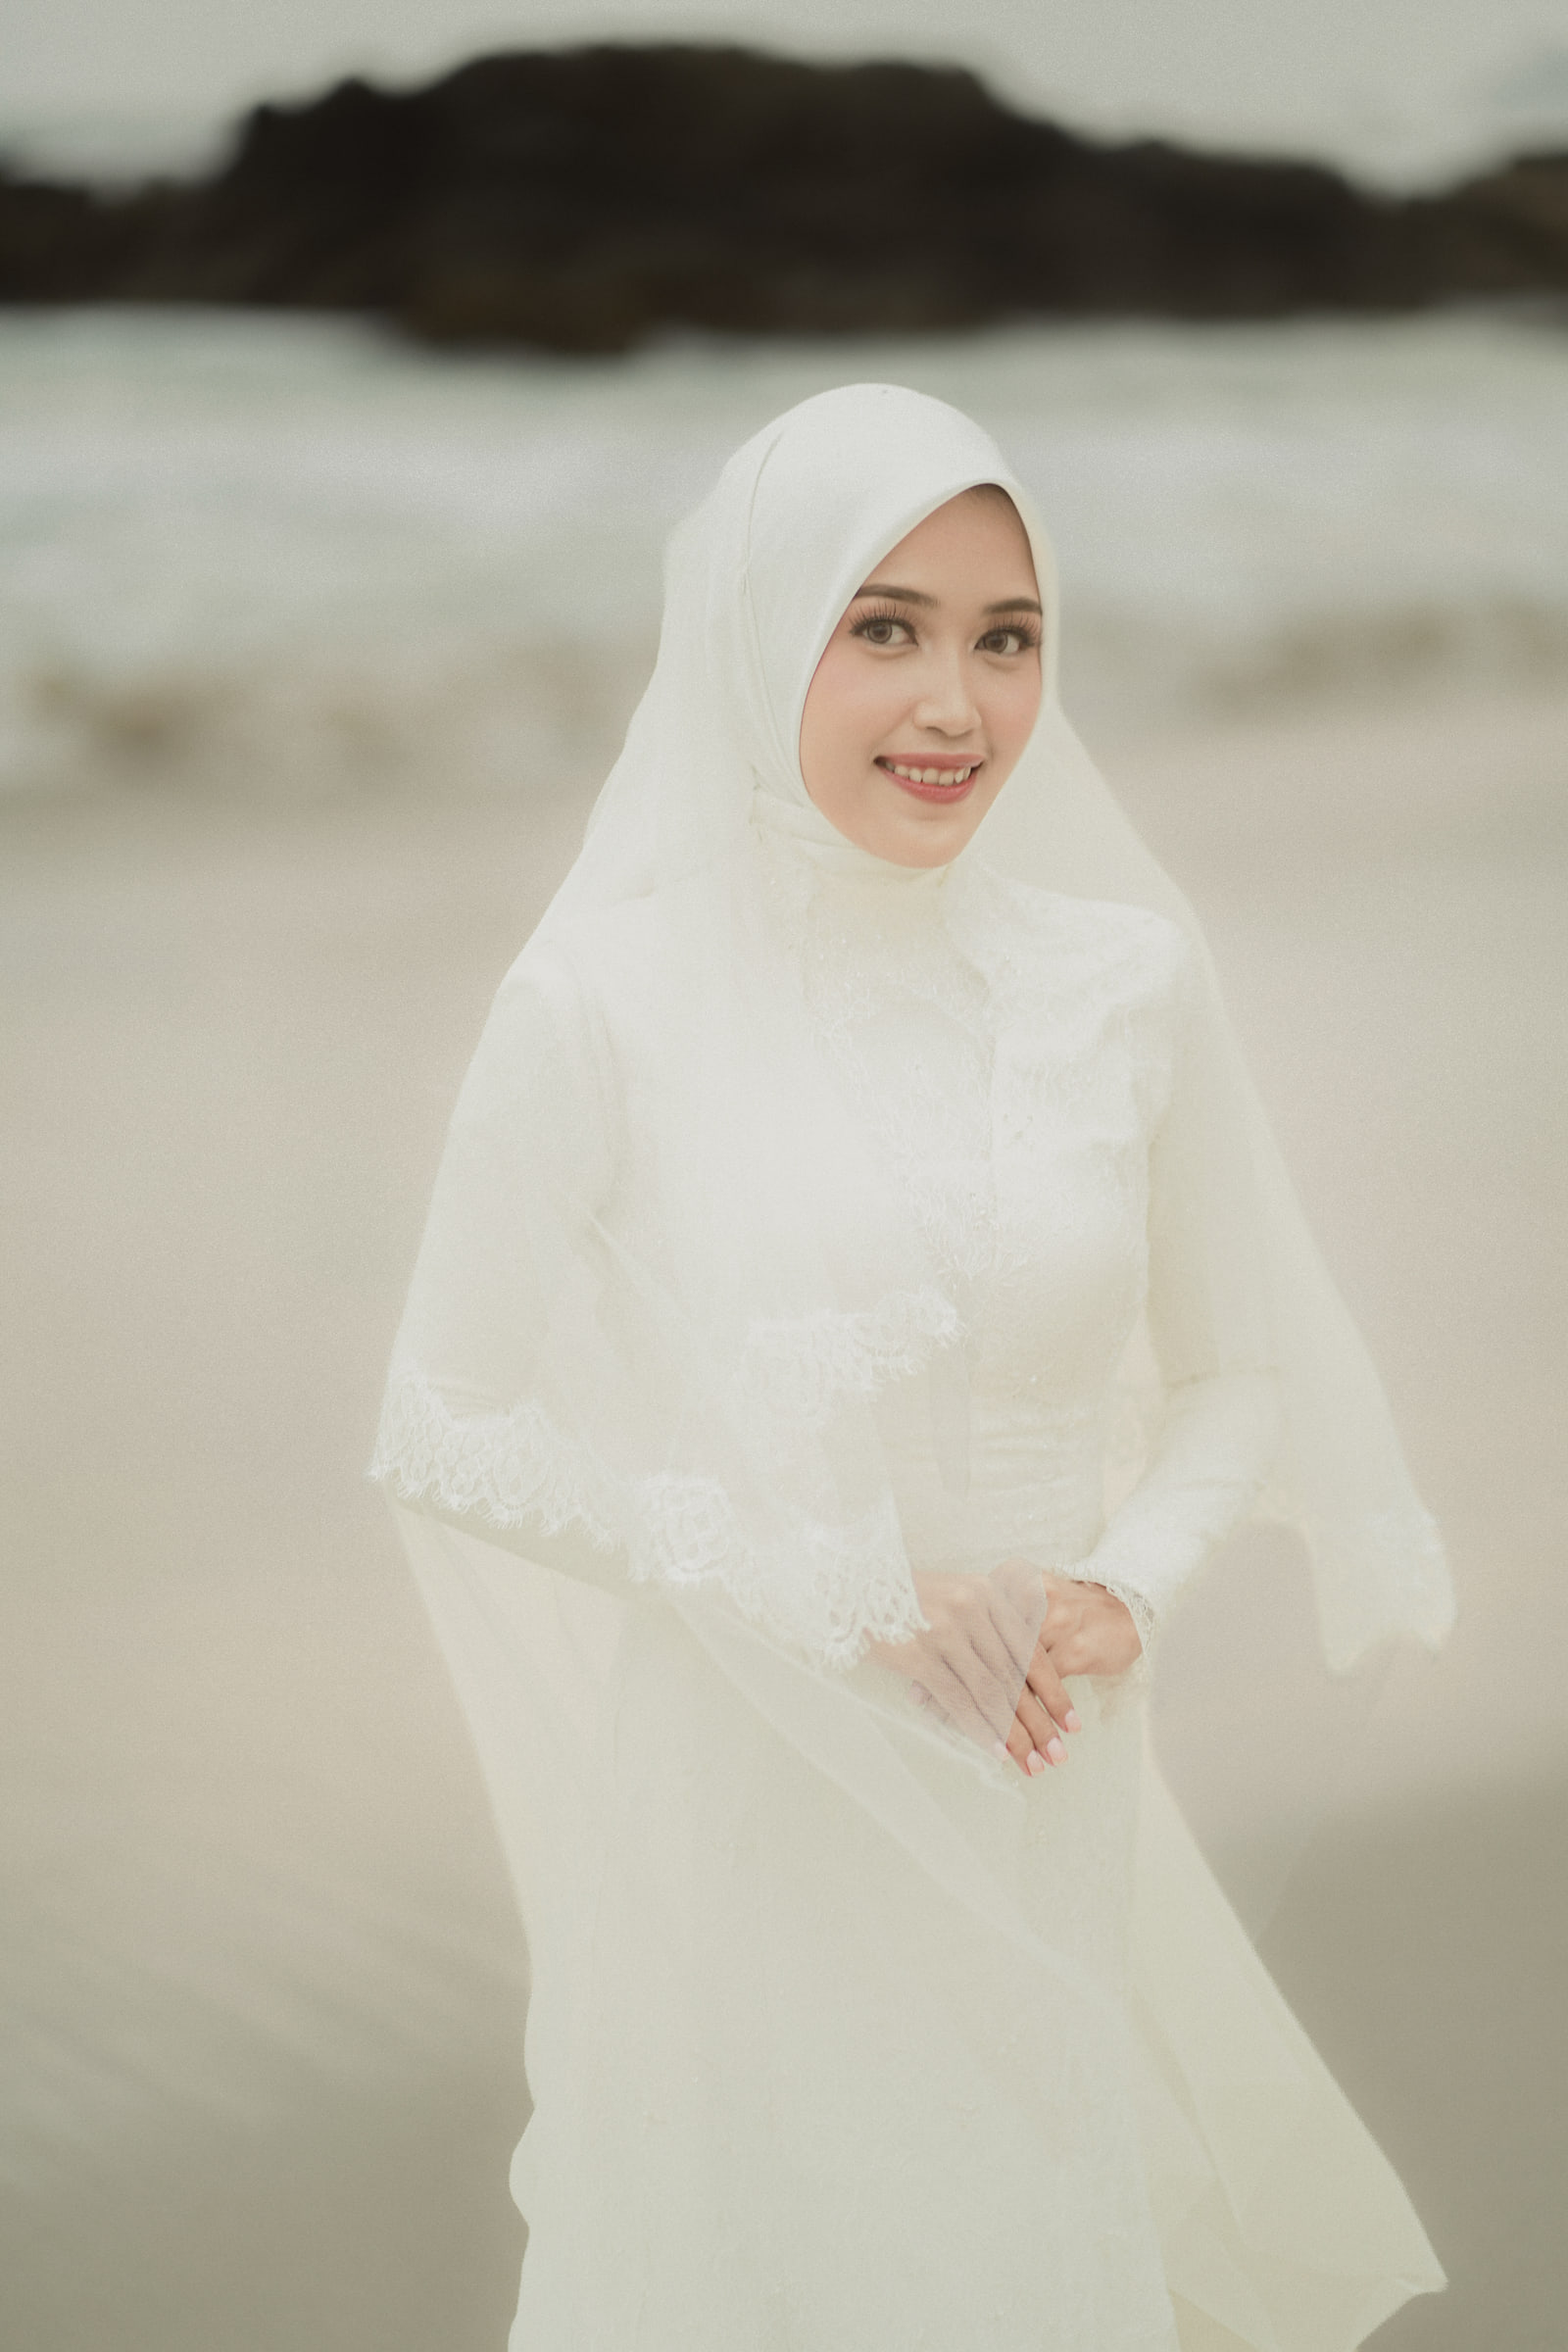
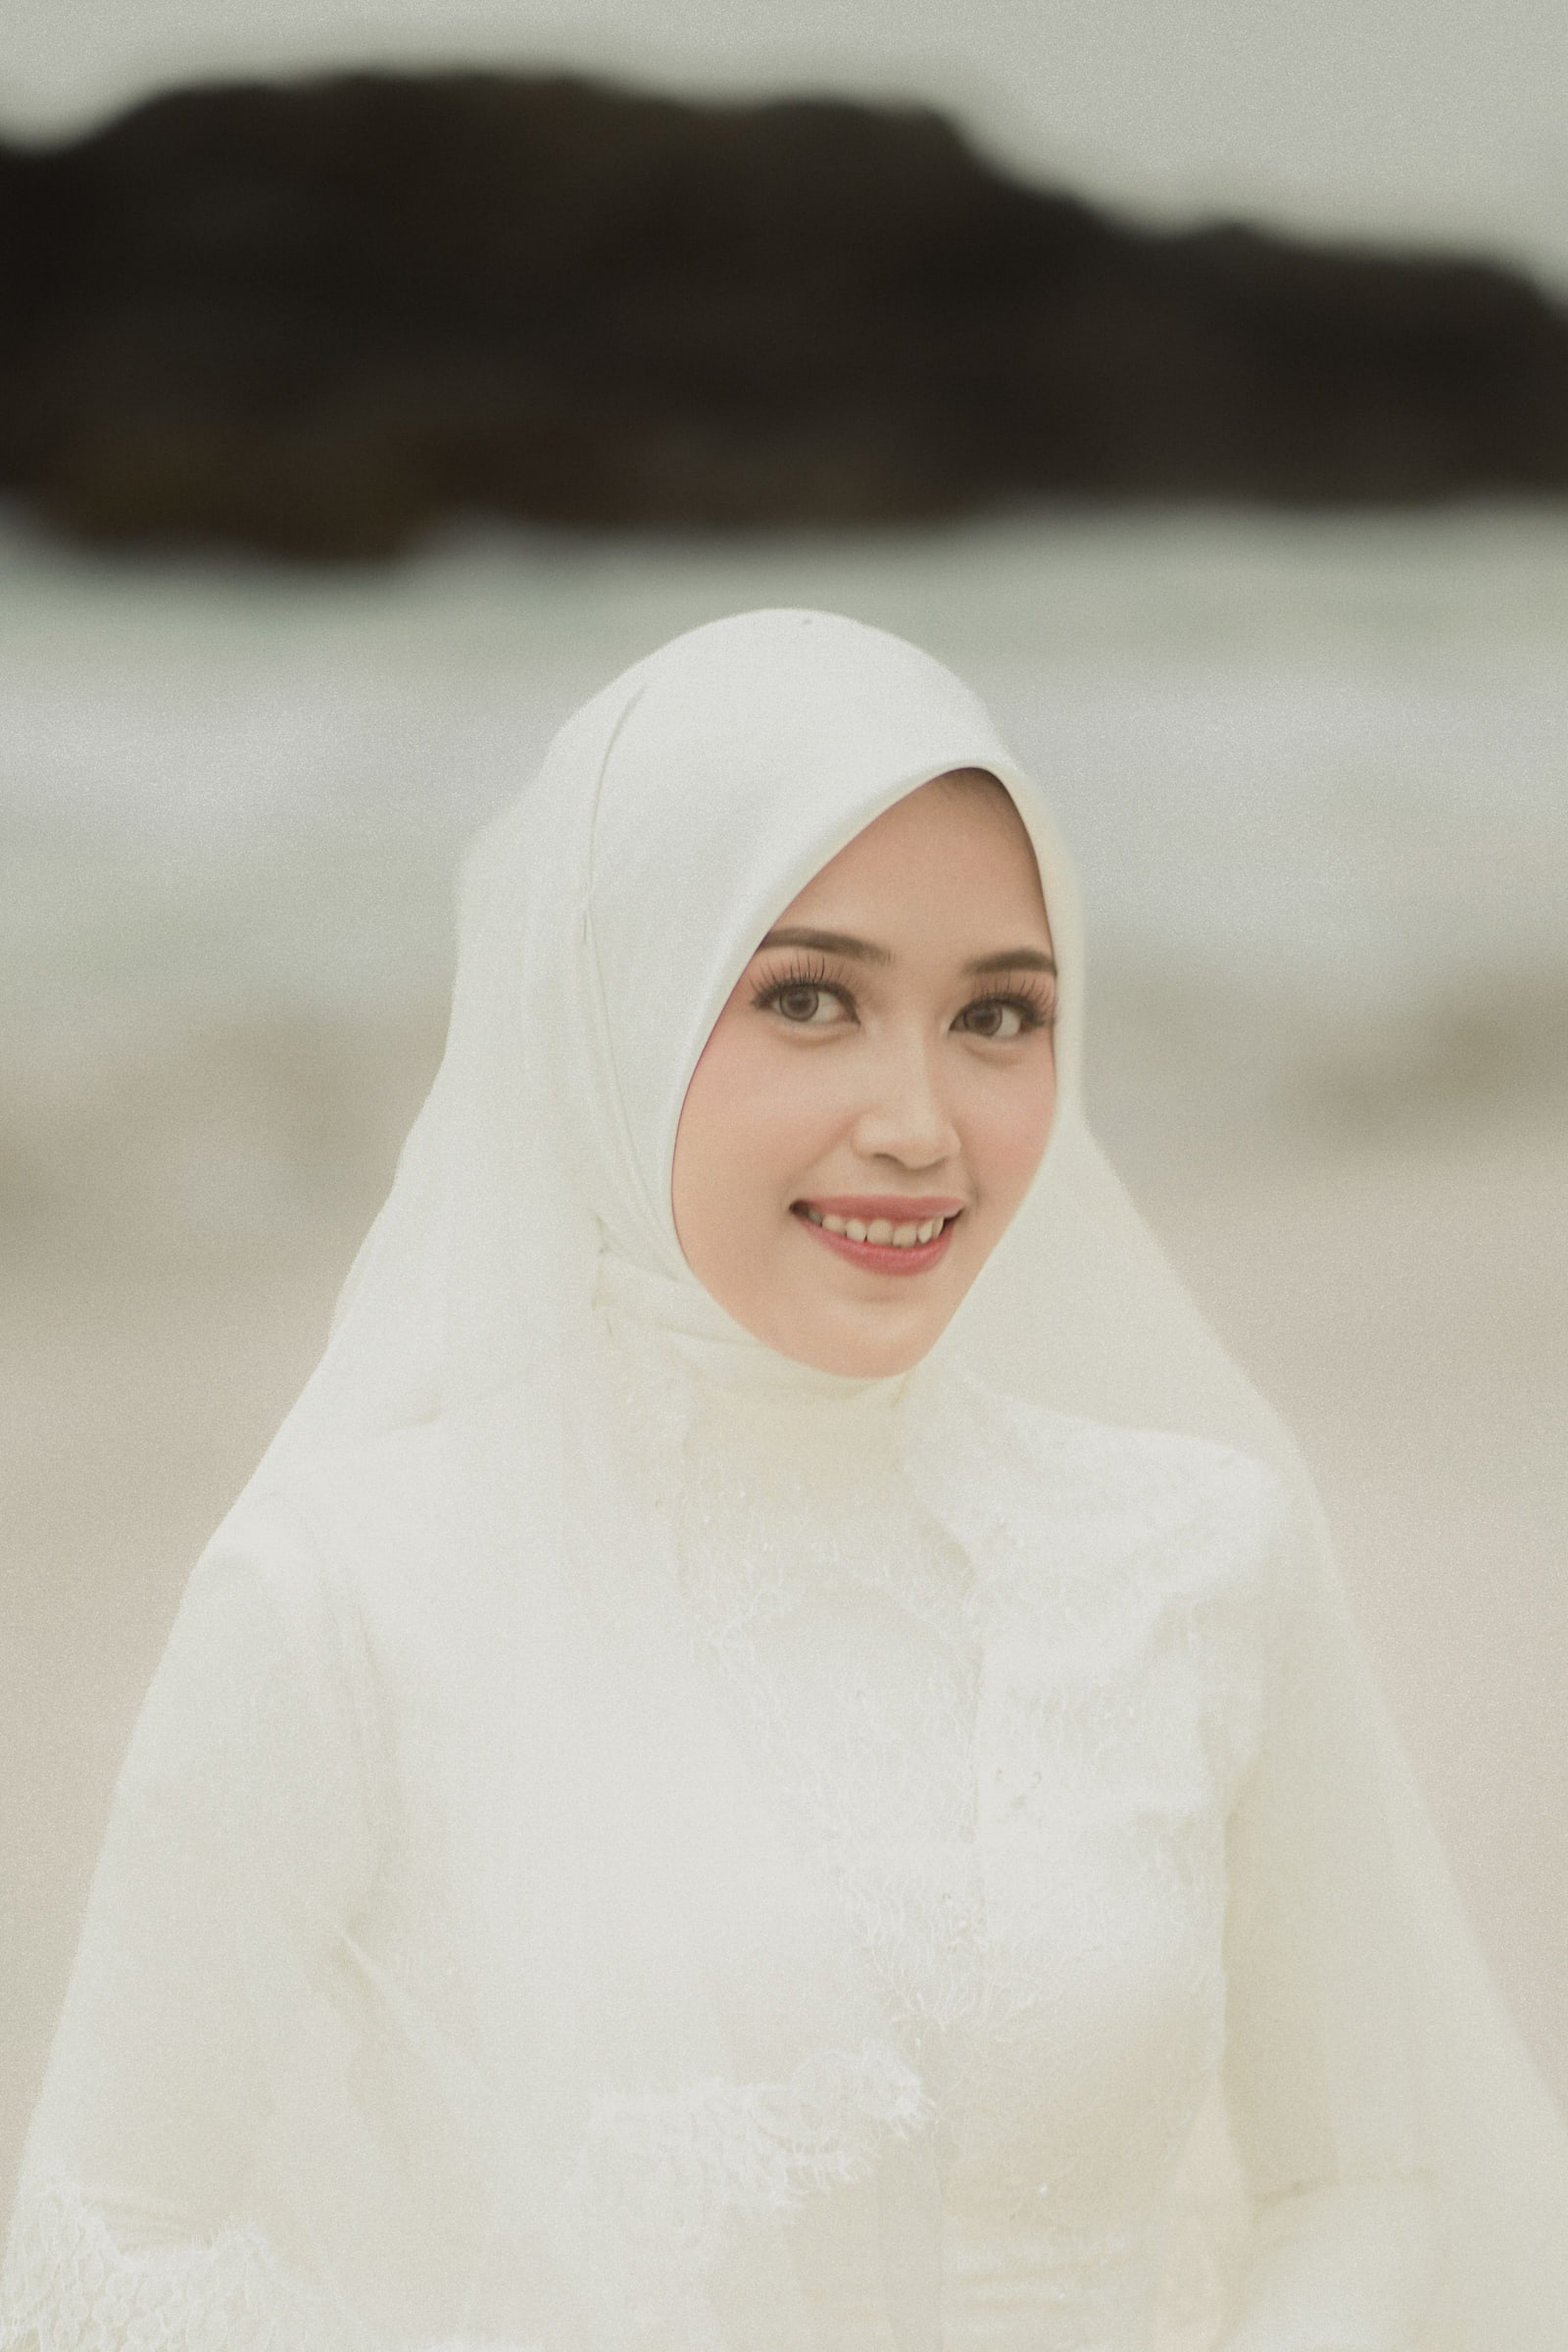
Frame the bride's portrait closer, with her head centered
optimize-photos.mjs gains a CROPS table so the framing survives regenerating the photos. bride.jpg is cropped from the original to near the groom portrait's scale and eye line, with her head (hijab included) centered so it stays centered on any phone width.

diff --git a/src/content/invitation.ts b/src/content/invitation.ts
@@ -140,7 +140,7 @@ export const invitation: InvitationContent = {
       parentLine: 'Putri Ketiga Dari',
       parents: 'Bapak Mukillah & Ibu Dra. Pahriyah',
       instagram: '@gheacm',
-      photo: { src: bride, alt: 'Ghea Citra Melani tersenyum mengenakan gaun pengantin putih berenda dan hijab dengan kerudung tipis di pantai', position: '58% 30%' },
+      photo: { src: bride, alt: 'Ghea Citra Melani tersenyum mengenakan gaun pengantin putih berenda dan hijab dengan kerudung tipis di pantai', position: '50% 50%' },
     },
   ],
   story: {

diff --git a/src/assets/media/README.md b/src/assets/media/README.md
@@ -22,7 +22,8 @@ src/assets/media/
 │                                 little less zoomed (thin blurred bands top and bottom)
 ├── background-blur.mp4           Tiny 192 px copy of the teaser, blurred by CSS, filling
 │                                 the thin soft bands above and below the video
-├── groom.jpg, bride.jpg          Mempelai Pria / Mempelai Wanita portraits
+├── groom.jpg, bride.jpg          The Groom / The Bride portraits (bride.jpg is a close-up
+│                                 crop, set in CROPS in scripts/optimize-photos.mjs)
 ├── story-2.jpg                   Journey of Love photo (joined hands)
 ├── video-clip.jpg                Poster for the video clip above the album; the clip
 │                                 itself is on YouTube (gpVMepCXalA) and its player loads
